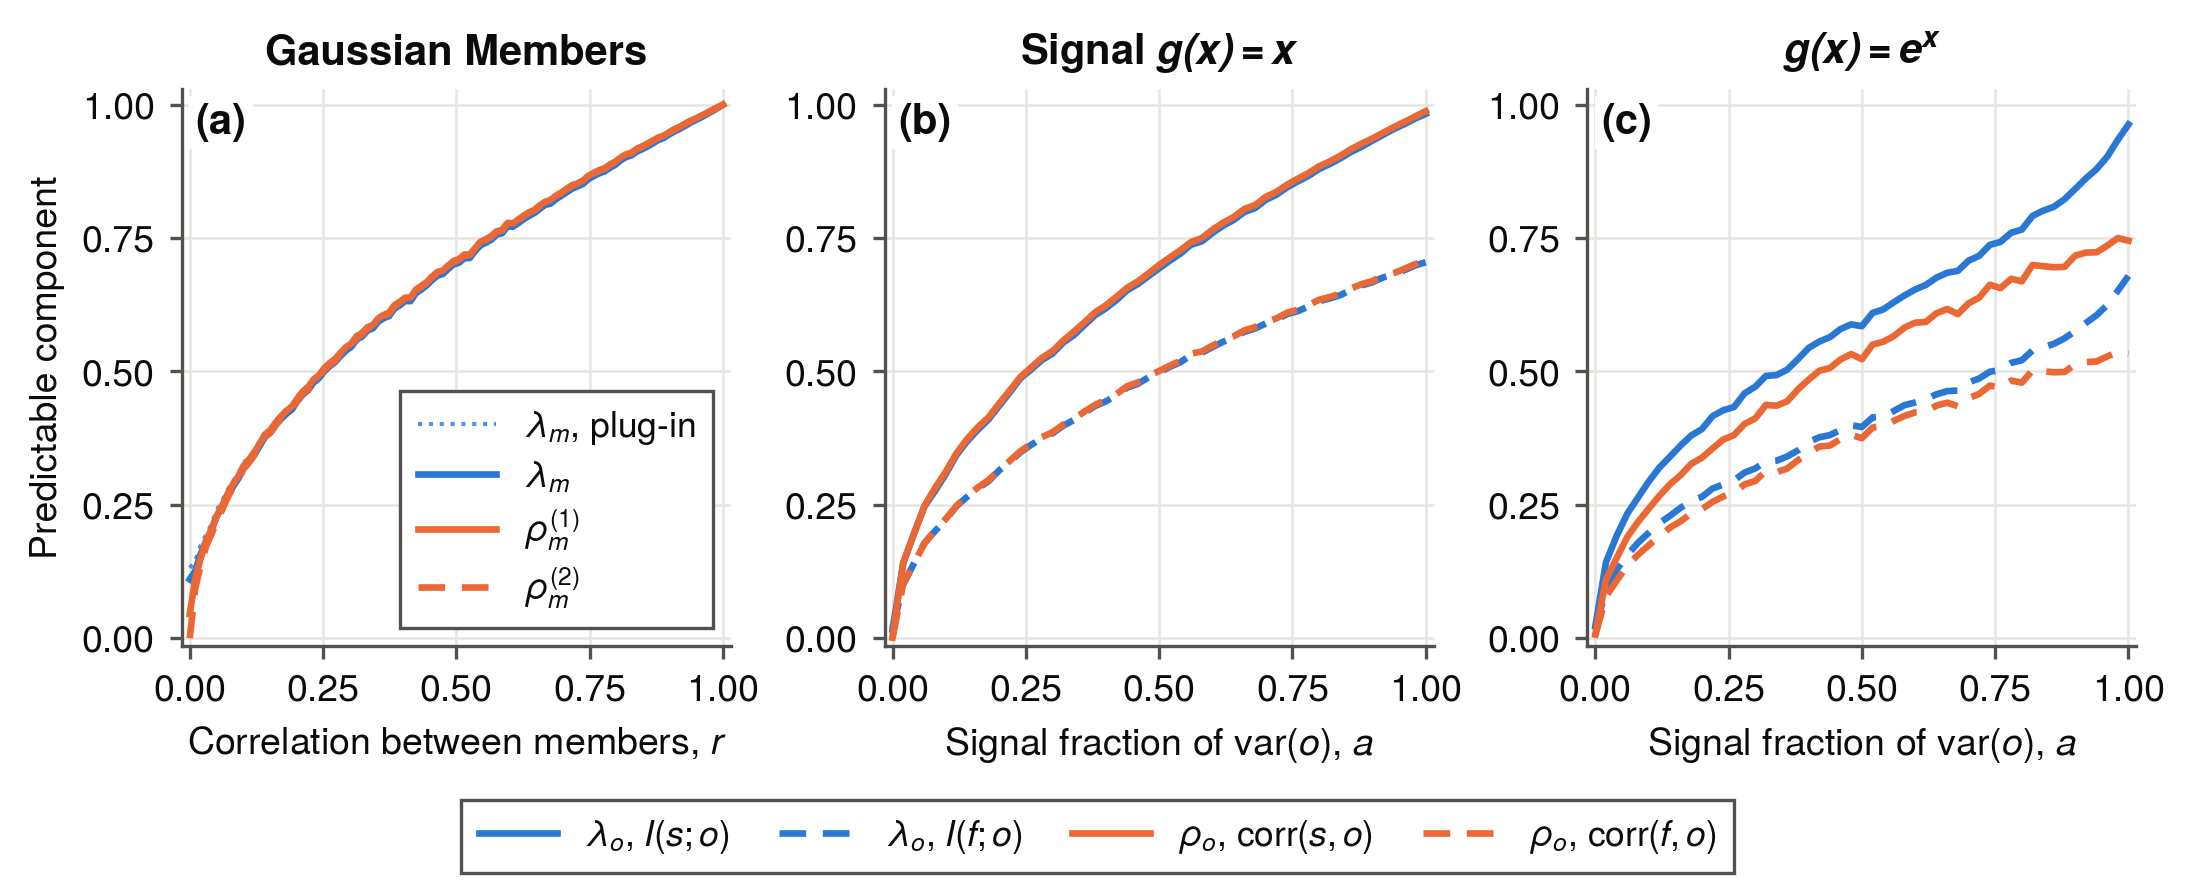
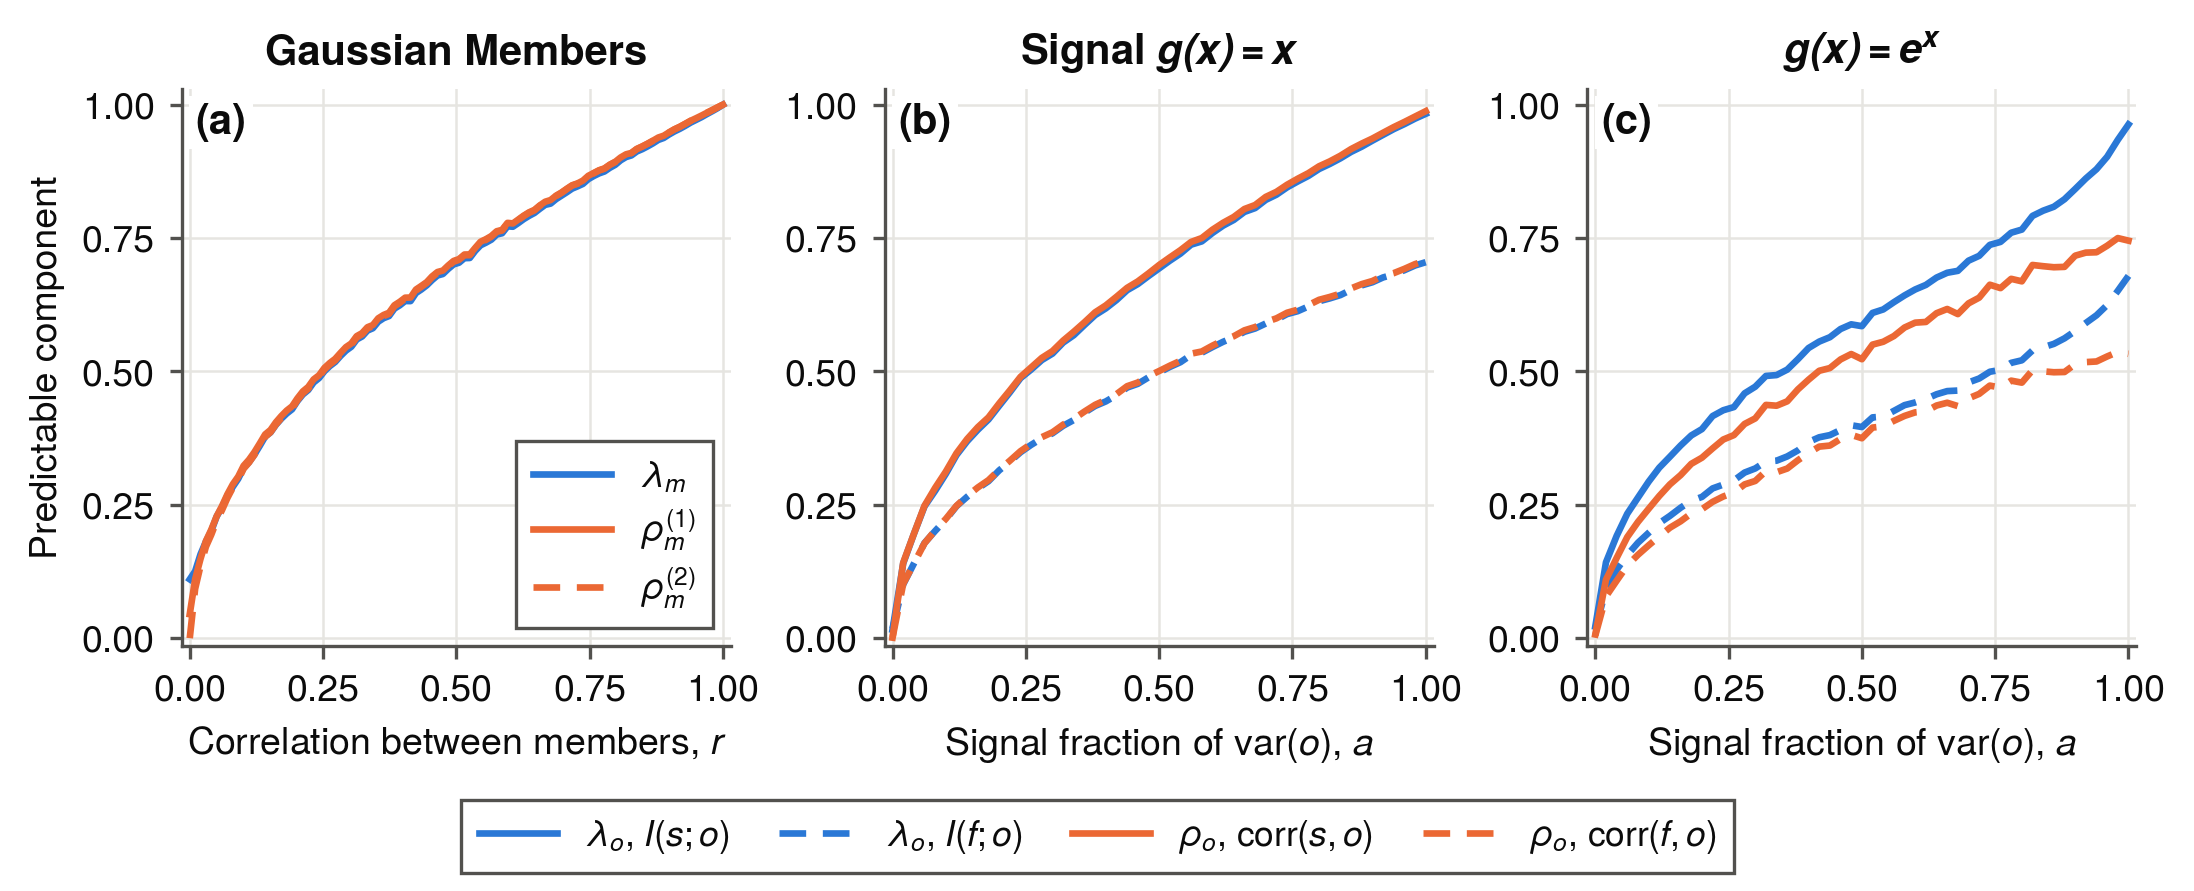
gaussian-array-lambda-rho: drop the plug-in lambda_m curve from panel (a)
Panel (a) shows only the bias-corrected lambda_m, labelled lambda_m; the legend
is lambda_m, rho_m^(1), rho_m^(2).

Changed region(s): [[0.186, 0.4242, 0.3409, 0.5455], [0.186, 0.6364, 0.3099, 0.7273], [0.186, 0.5758, 0.3099, 0.6061]]

diff --git a/scripts/gaussian_demo.py b/scripts/gaussian_demo.py
@@ -96,10 +96,9 @@ def lam(d, k):
 
 def plot(d):
     fig, axs = plt.subplots(1, 3, figsize=(7.2, 3.05), layout="constrained")
-    lam_m, lam_m_deb = lam(d, "I_m")
+    _, lam_m = lam(d, "I_m")
     ax = axs[0]
-    ax.plot(d["r"], lam_m, color=BLUE, lw=1.0, ls=(0, (1, 1.6)), alpha=0.8, label=r"$\lambda_m$, plug-in")
-    ax.plot(d["r"], lam_m_deb, color=BLUE, lw=1.6, label=r"$\lambda_m$")
+    ax.plot(d["r"], lam_m, color=BLUE, lw=1.6, label=r"$\lambda_m$")
     ax.plot(d["r"], d["rho_m_1"], color=ORANGE, lw=1.6, label=r"$\rho_m^{(1)}$")
     ax.plot(d["r"], d["rho_m_2"], color=ORANGE, lw=1.6, ls=(0, (4, 2.5)), label=r"$\rho_m^{(2)}$")
     ax.set_xlabel("Correlation between members, $r$")
